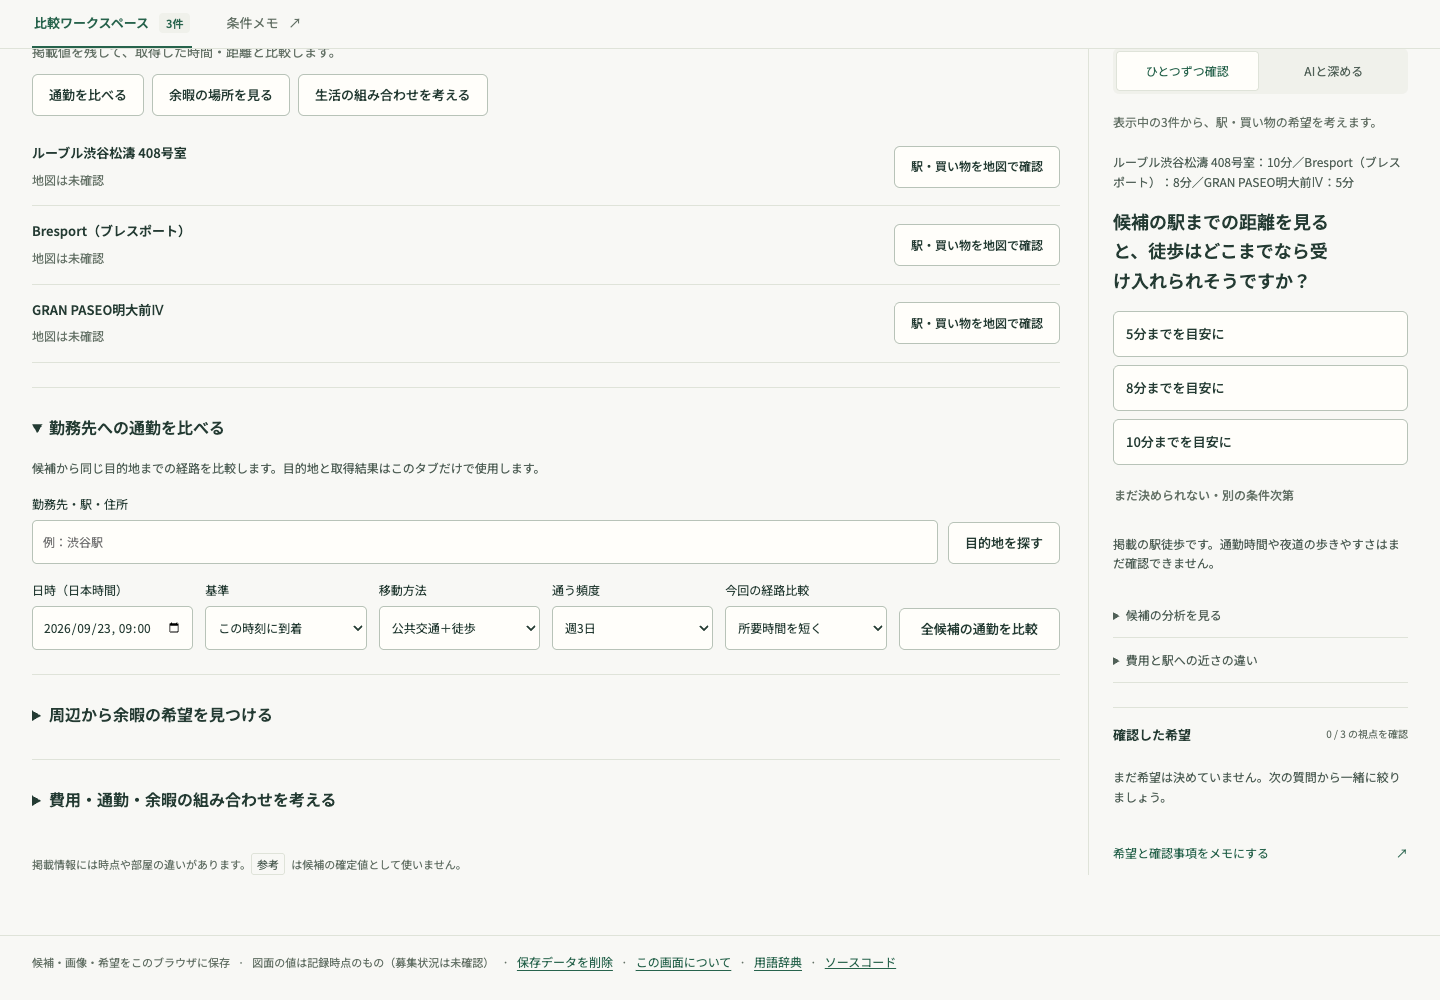
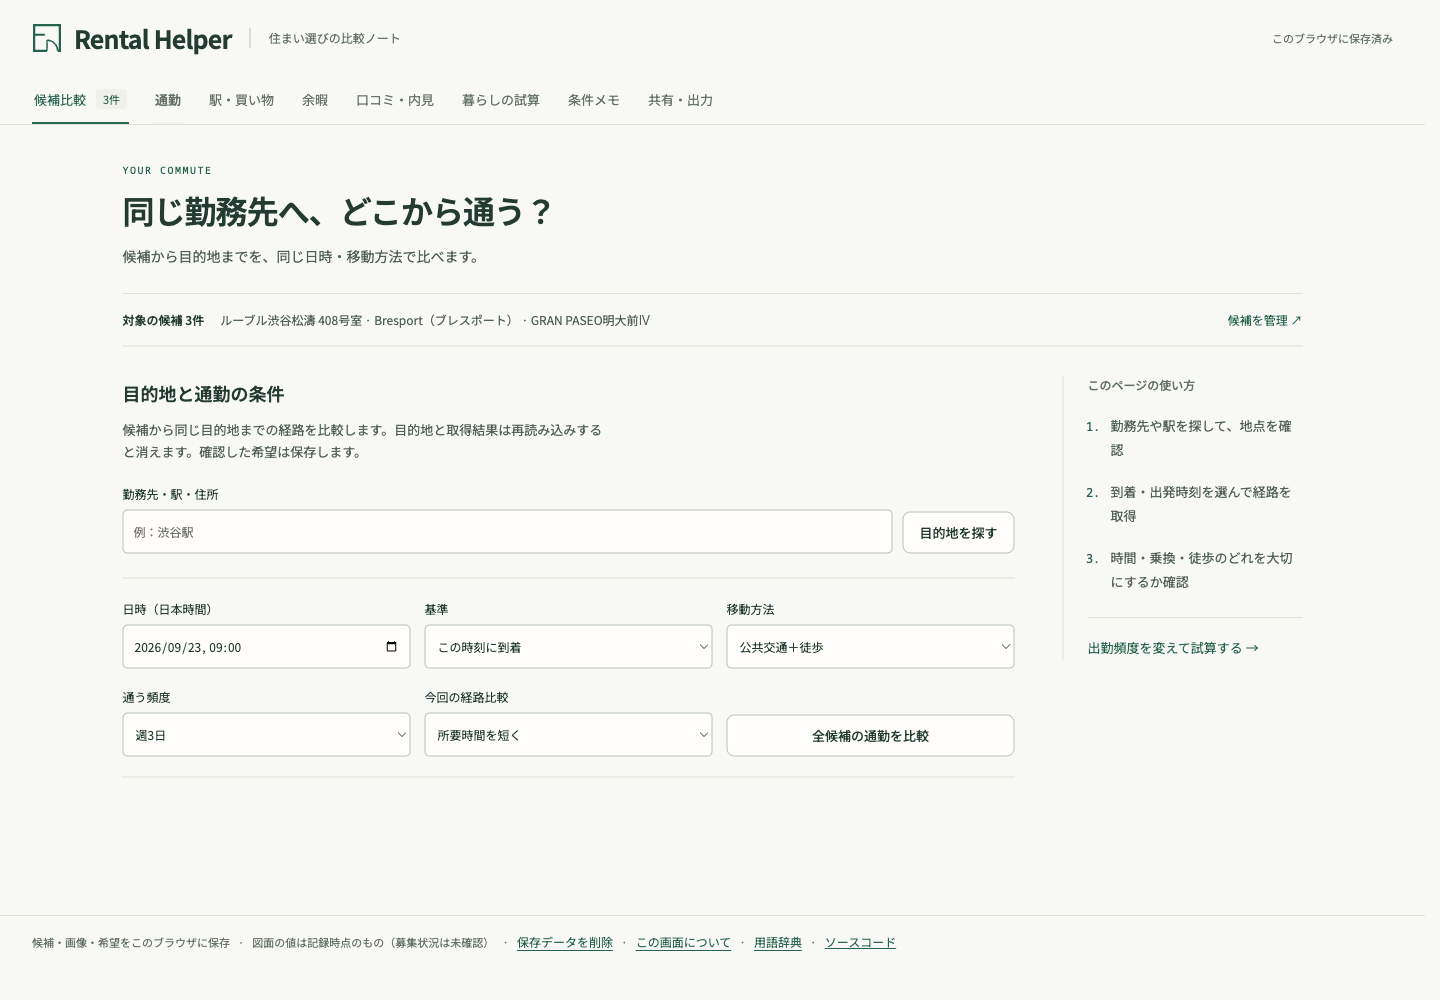
docs(navigation): map feature entry points and refresh walkthrough

diff --git a/README.md b/README.md
@@ -22,9 +22,26 @@ Rental Helper brings candidate facts and sources together, asks focused question
 | A product or design reviewer | [Product principles](PRODUCT.md), [interface decisions and interaction checks](docs/UI_DESIGN.md), then [upcoming user journeys](ROADMAP.md). |
 | An engineering reviewer | [8-step code tour](docs/CODE_TOUR.md), [architecture and setup](docs/DEVELOPMENT.md), and [validation](docs/VALIDATION.md). |
 
+## Find a feature
+
+Desktop: choose a top tab. Mobile: use **機能を選ぶ**. Each page shows its candidate scope and the next step; switching pages preserves current drafts and retrieved results until reload.
+
+| Open the demo at… | What to do there |
+| --- | --- |
+| [候補比較 — compare](https://sodashikenn.github.io/rental-helper/#compare) | Add images/links, compare facts, and confirm candidate-based priorities with AI or numeric questions. |
+| [通勤 — commute](https://sodashikenn.github.io/rental-helper/#commute) | Confirm a work destination and compare scheduled routes. |
+| [駅・買い物 — essentials](https://sodashikenn.github.io/rental-helper/#surroundings) | Check each candidate's listed walking claims against Maps. |
+| [余暇 — leisure](https://sodashikenn.github.io/rental-helper/#leisure) | Find nearby parks, gyms and cafés before discussing preferences. |
+| [口コミ・内見 — reviews/viewings](https://sodashikenn.github.io/rental-helper/#reviews) | Inspect attributed building reports and keep separate personal notes. |
+| [暮らしの試算 — scenarios](https://sodashikenn.github.io/rental-helper/#scenarios) | Change weekly commuting frequency and compare the tradeoffs. |
+| [条件メモ — brief](https://sodashikenn.github.io/rental-helper/#needs) | Edit and copy the decision brief. |
+| [共有・出力 — share/export](https://sodashikenn.github.io/rental-helper/#sharing) | Preview included information, download HTML or manage expiring links. |
+
+Live research, Maps, AI and hosted sharing require a configured API; the public demo exposes the same interface.
+
 ## Try the three-step journey
 
-The current app keeps comparison and discovery in one workspace, with a separate decision brief. Use cost, space, access, equipment/contracts or full-list views; questions stay beside the evidence. On mobile, select two candidates and open the questions in a bottom panel. Each screenshot below opens at full size; expand the steps for a guided tour. [Run this version locally](docs/DEVELOPMENT.md#run-locally) to interact with it.
+The app has eight directly accessible feature tabs. On phones, the **機能を選ぶ** dropdown exposes the same pages. Comparison and discovery stay together in **候補比較**, with separate pages for routes, surroundings, reviews, scenarios, the memo and sharing. Use cost, space, access, equipment/contracts or full-list views; questions stay beside the evidence. On mobile, select two candidates and open the questions in a bottom panel. Each screenshot below opens at full size; expand the steps for a guided tour. [Run this version locally](docs/DEVELOPMENT.md#run-locally) to interact with it.
 
 | 01 · Compare / 比較する | 02 · Discover / 希望を整理する | 03 · Takeaway / メモを持ち出す |
 | --- | --- | --- |
@@ -45,7 +62,7 @@ With the backend configured, missing monthly charges trigger research automatica
 <details>
 <summary><strong>02 — Discover: turn a vague preference into a confirmed choice</strong></summary>
 
-In **比較ワークスペース**, select **AIと深める** in the side panel (on mobile, open **この違いから希望を整理** first). With Gemini available, start candidate analysis: the conversation asks one evidence-linked question, offers choices and deferral, and proposes priorities for explicit acceptance.
+In **候補比較**, select **AIと深める** in the side panel (on mobile, open **この違いから希望を整理** first). With Gemini available, start candidate analysis: the conversation asks one evidence-linked question, offers choices and deferral, and proposes priorities for explicit acceptance.
 
 For a no-key walkthrough, use **費用 → ひとつずつ確認**. Pick a candidate-derived monthly budget, then choose whether it is a must-have or flexible preference. A tentative choice alone does not update requirements. After confirmation, inspect each candidate's fit, conflict or unknown state.
 
@@ -58,18 +75,18 @@ The screenshots use this real numeric fallback; they do not depict a fabricated 
 
 Open **条件メモ**. The memo combines confirmed priorities, selected equipment and questions to check with an agent. Edit and copy it. Reload to confirm that local candidates, preferences and memo edits survive.
 
-Saving is specific to this browser. Maps observations and conversations containing them are temporary; accepted preferences persist. Open **プレビューして共有・ファイル出力** to preview the brief, download HTML, or create a 1–7 day link with a connected backend. The creator can revoke the link; downloaded copies remain with recipients.
+Saving is specific to this browser. Maps observations and conversations containing them are temporary; accepted preferences persist. Open the **共有・出力** tab to preview the brief, download HTML, or create a 1–7 day link with a connected backend. The creator can revoke the link; downloaded copies remain with recipients.
 
 </details>
 
 <details>
 <summary><strong>Explore the new modules: commute, leisure, reviews and sharing</strong></summary>
 
-- **駅・買い物 → 勤務先への通勤を比べる:** find and confirm a destination, set a Japan-time schedule, then compare returned journeys. Confirm the route objective only after seeing evidence.
-- **周辺から余暇の希望を見つける:** retrieve actual options first, choose an activity/frequency, then explicitly accept its importance. “None” and “not sure” are valid.
-- **費用・通勤・余暇の組み合わせを考える:** vary days per week and see which explanations change. Missing rent/routes stay unknown.
-- **設備・契約 → 建物の口コミと、自分の内見記録:** confirm the matched building, read attributed reports, turn concerns into viewing checks, and record your own observations separately.
-- **条件メモ → プレビューして共有・ファイル出力:** review exactly which fields are included. Images/chat are optional local HTML attachments; hosted links use a smaller allowlisted document.
+- **通勤:** find and confirm a destination, set a Japan-time schedule, then compare returned journeys. Confirm the route objective only after seeing evidence.
+- **余暇:** retrieve actual options first, choose an activity/frequency, then explicitly accept its importance. “None” and “not sure” are valid.
+- **暮らしの試算:** vary days per week and see which explanations change. Missing rent/routes stay unknown.
+- **口コミ・内見:** confirm the matched building, read attributed reports, turn concerns into viewing checks, and record your own observations separately.
+- **共有・出力:** review exactly which fields are included. Images/chat are optional local HTML attachments; hosted links use a smaller allowlisted document.
 
 [![Commute destination and schedule form](docs/images/commute.png)](docs/images/commute.png)
 

diff --git a/docs/UI_DESIGN.md b/docs/UI_DESIGN.md
@@ -14,6 +14,16 @@ This pass applies [Emil Kowalski's design engineering skill](https://github.com/
 | Mobile panel content immediately moves away on close | It remains through the CSS exit and returns to the inspector on desktop | Avoid an empty exit frame; preserve content on resize. |
 | Additional-input disclosure stays open after selection | Close on action, outside click or Escape; restore focus on Escape | Finish the interaction without leaving stray controls open. |
 | New-link intake evaluates a fingerprint without a candidate | Only read cached research when it exists | Keep the primary link-entry dialog available for a new candidate. |
+| Commute/leisure/scenarios hidden inside access; reviews inside equipment; sharing below the memo | Eight visible desktop tabs and a grouped phone dropdown; each feature opens its own page with forms already visible | Make features discoverable without knowing where they used to be nested. |
+| No route identity for a feature | Dedicated hash links, Back/Forward and consistent title/selection | Let users return to the same tool and link directly to it. |
+
+## Feature navigation
+
+The eight destinations are **候補比較 / 通勤 / 駅・買い物 / 余暇 / 口コミ・内見 / 暮らしの試算 / 条件メモ / 共有・出力**. On mobile, a native grouped select replaces the tab row so every feature remains discoverable at 320 px. Each feature page shows candidate scope, its form, three steps and a relevant next destination. Reviews and personal viewing notes have separate headings; memo editing and sharing have separate destinations.
+
+Navigation toggles existing panels, so a draft or retrieved result survives switching. It never changes a confirmed preference or starts a provider request by itself. Browser refresh restores the route but follows the existing rules for temporary Maps content. The comparison's mobile pair picker does not limit the standalone essentials page.
+
+<img src="images/navigation-mobile.png" width="390" alt="Mobile reviews page with the feature selector, candidate scope, building lookup and separate viewing notes." />
 
 ## Ownership
 
@@ -22,12 +32,16 @@ This pass applies [Emil Kowalski's design engineering skill](https://github.com/
 - [interactions.css](../web/static/interactions.css): motion tokens, native dialog transitions, pointer feedback, safe areas and accessibility overrides. Unsupported discrete transitions fall back to immediate native dialogs.
 - [interactions.js](../web/shared/interactions.js): ephemeral input modality and additional-input disclosure dismissal. It neither reads nor writes tenant preferences.
 - [workspace controller](../web/apps/workspace/index.js): native bottom-panel placement and focus, including open/closed resize cases.
+- [navigation registry](../web/apps/workspace/navigation.js): feature labels, help text, next destinations and legacy route aliases. [Navigation views](../web/apps/workspace/navigation-views.js) generates both desktop/mobile controls from that registry.
+- [navigation.css](../web/static/navigation.css): feature-page hierarchy and responsive navigation, separate from business modules.
 
 No duplicate tab lists, simulated gestures or custom modal focus traps are introduced. Native buttons, tabs, disclosures and `<dialog>` retain their existing semantics. Text remains selectable; selection suppression applies to controls only. Reduced motion and keyboard use disable transitions.
 
 ## Reproduce the interaction checks
 
 Start `npm run dev:web`, then run `npm run smoke:ui`. The [browser scenario](../scripts/browser-ui-smoke.js) uses an isolated Chromium session and requires no API credentials. It checks keyboard tabs, disclosure dismissal, focus return, interrupted dialog open/close, reduced motion, open/closed sheet resizing, 320/390/760 px touch layouts, 16 px form controls and dark mode. `npm run smoke:browser` additionally exercises the existing feature workflow with stubbed providers and a real local sharing API.
+
+Navigation checks additionally cover all eight desktop/mobile destinations, one selected tab, dropdown synchronization, draft preservation across Back/Forward, reload/deep links, legacy anchors and overflow on all eight pages at 320/390/760 px. The full feature check now traverses the top tabs from commute through leisure, scenarios, reviews, memo and sharing.
 
 [![Comparison workspace](images/compare.png)](images/compare.png)
 

diff --git a/PRODUCT.md b/PRODUCT.md
@@ -28,7 +28,7 @@ The tenant supplies candidates first. Do not start with a free-text “暮らし
 | Reviews | Match normalized building name and nearby location, reject shops; explicit place confirmation; attributed relevance-ordered reports; viewing-question shortcuts and separate personal notes. | Posts do not prove residency. Live Louvre matching returned no confirmed place, so no reviews were attached. |
 | Takeaway/sharing | Editable/copyable memo, HTML download, content preview, optional personal details, 1–7 day SQLite-backed links and owner revocation. | Shared links require a reachable API. Images/eligible chat are local HTML only; provider routes and review text are excluded. Single-instance storage; no accounts. |
 | Persistence | IndexedDB saves candidates, image blobs, answers, preferences, memo edits and eligible conversation history; deletion control included. | Local to browser/origin. Maps observations and conversations reproducing them are temporary; accepted preferences persist. |
-| UI | Guided comparison workspace with five concern views, adjacent numeric/AI questions, confirmed-priority pills, and a separate memo. Mobile pair selection and a question panel; keyboard navigation and reduced motion. | Repository screenshots show the recorded candidate workflow; live services require a configured backend. |
+| UI | Eight feature tabs (mobile grouped dropdown), dedicated feature pages with candidate scope and instructions; five comparison concerns, adjacent numeric/AI questions, confirmed-priority pills, and separate memo/sharing views. Mobile pair selection and a question panel; keyboard navigation and reduced motion. | Repository screenshots show the recorded candidate workflow; live services require a configured backend. |
 
 ## Interaction contract
 
@@ -41,6 +41,10 @@ The tenant supplies candidates first. Do not start with a free-text “暮らし
 Work-destination and leisure questions follow candidate comparison. A workplace cannot be inferred from a listing: request the destination when the tenant chooses to examine commuting. Ask for a place/address and relevant schedule, not an upfront lifestyle essay.
 
 ### Workspace behavior
+
+- Top navigation exposes comparison, commute, essentials, leisure, reviews/viewings, scenarios, memo and sharing. The phone dropdown lists all eight pages, grouped by task. Primary feature forms are immediately visible, without an extra disclosure.
+- Hash links, browser Back/Forward and keyboard tab navigation select the same page. Legacy feature anchors resolve to the corresponding page. View changes hide/show existing DOM; they do not remount modules or discard in-memory results. Reload still clears temporary provider data.
+- Candidate scope is shown on feature pages. Essentials checks cover the entire shortlist, including on mobile; the two-candidate selector is local to the comparison table.
 
 - Cost, space/building, access, equipment/contracts and full-list tabs change the comparison and question context. Selecting a view does not confirm a preference.
 - At widths of 760 px or less, show two selected candidates side by side. Selecting the other slot swaps them; removing a selected candidate fills the slot from remaining candidates. Desktop preserves the full shortlist in input order, with horizontal scrolling when needed.

diff --git a/docs/VALIDATION.md b/docs/VALIDATION.md
@@ -7,6 +7,7 @@ This log distinguishes implemented behavior, deterministic checks, and actual pr
 | `npm test` | 96 frontend + 95 backend passed; 2 optional real-OCR tests skipped | Logic and provider contracts pass with stubs; not a model accuracy benchmark. |
 | Browser workflow | Desktop/mobile, destination confirmation, partial commute failure, leisure confirmation, scenario frequency, review-to-question, personal observation, memo, private-share defaults and HTML download | Google responses stubbed; no synthetic results are shipped as live observations. |
 | UI polish checks | `npm run smoke:ui` passed: keyboard/focus, Escape/outside dismissal, interrupted native dialogs, reduced motion, open/closed sheet resizing, 320/390/760 px touch layouts, 16 px form inputs, dark mode. `npm run smoke:browser` and 96 frontend tests passed again after UI changes. | Chromium and touch emulation; real phone keyboard/safe-area/gesture checks remain open. [Design decisions](UI_DESIGN.md). |
+| Feature navigation | All eight pages reachable from desktop tabs/mobile dropdown; Back/Forward retains drafts; reload and old deep links select the right page; all pages fit 320/390/760 px. Full stubbed-provider/share workflow passes through the new tabs. | Navigation retains mounted feature instances; it does not revalidate live provider coverage. |
 | Compose configuration | `docker compose ... config --quiet` passed; local Docker daemon was unavailable | API image build is left to CI; no local image-build claim. |
 | GitHub CI for the feature release | [Run 35641505498](https://github.com/SodaShikenn/rental-helper/actions/runs/35641505498) passed frontend, backend and Docker build/Compose jobs | The image built on GitHub; the public API has not been deployed. |
 | Local sharing | Real backend: create → separate reader → revoke → reader receives not-found | SQLite and revocation work locally; not a public backend deployment. |

diff --git a/README.ja.md b/README.ja.md
@@ -21,6 +21,23 @@
 | 技術・実装 | [開発ガイド](docs/DEVELOPMENT.md)と[実装へのリンク](README.md#explore-the-implementation) |
 | 次の開発テーマ | [通勤・余暇・シナリオ比較のロードマップ](ROADMAP.md) |
 
+## 機能の入口
+
+PCでは上部のタブ、スマートフォンでは **「機能を選ぶ」** から移動します。各ページには対象の候補と操作手順があります。切り替えても入力途中の内容や取得結果は保持されます（地図情報は再読み込みで消えます）。
+
+| タブ | できること |
+| --- | --- |
+| 候補比較 | 画像・リンクの追加、数値比較、AIとの希望整理 |
+| 通勤 | 勤務先と日時を指定した経路比較 |
+| 駅・買い物 | 掲載の徒歩時間とMapsの経路を照合 |
+| 余暇 | 公園・ジム・カフェから使いたい場所を考える |
+| 口コミ・内見 | 建物の口コミと本人の内見記録 |
+| 暮らしの試算 | 出勤頻度を変えて費用・通勤・余暇の違いを見る |
+| 条件メモ | 希望と確認事項を編集・コピー |
+| 共有・出力 | プレビュー、HTML保存、期限付きリンク |
+
+オンライン調査・Maps・AI・共有リンクにはAPIの接続が必要です。[各ページへの直接リンク](README.md#find-a-feature) · [画面設計](docs/UI_DESIGN.md)
+
 ## 3つの操作で体験する
 
 比較ワークスペースでは「費用・広さ・駅と買い物・設備と契約・一覧」を切り替え、候補を見ながら横のパネルで希望を整理できます。スマートフォンでは2件を選んで比較し、下のボタンから質問を開きます。画像を押すと拡大できます。現在の版を操作するには[ローカル起動](docs/DEVELOPMENT.md#run-locally)を使います。

diff --git a/docs/CODE_TOUR.md b/docs/CODE_TOUR.md
@@ -66,6 +66,8 @@ The [browser smoke scenario](../scripts/browser-smoke.js) stubs provider results
 
 For interface work, start with [UI design decisions](UI_DESIGN.md). Cross-feature motion and touch behavior live in `web/static/interactions.css`; its small `web/shared/interactions.js` companion owns presentation state only. The workspace controller owns responsive panel placement; business rules stay in the feature modules.
 
+Feature navigation has one [registry](../web/apps/workspace/navigation.js) for the desktop tabs, grouped mobile select, help text and old route aliases. [Navigation views](../web/apps/workspace/navigation-views.js) renders that configuration; the controller switches panel visibility without recreating feature instances. Routing does not write to preferences or provider state.
+
 ## How to add a feature
 
 Create its frontend controller/pure service/view and API router/model/service; register them in [web/app.js](../web/app.js) and [server/app.py](../server/app.py). Add only necessary shared primitives. Add transport-based provider tests, uncertainty/stale-response cases and a short walkthrough. Update [PRODUCT.md](../PRODUCT.md) and [ROADMAP.md](../ROADMAP.md) with separate implementation and live-validation states.
